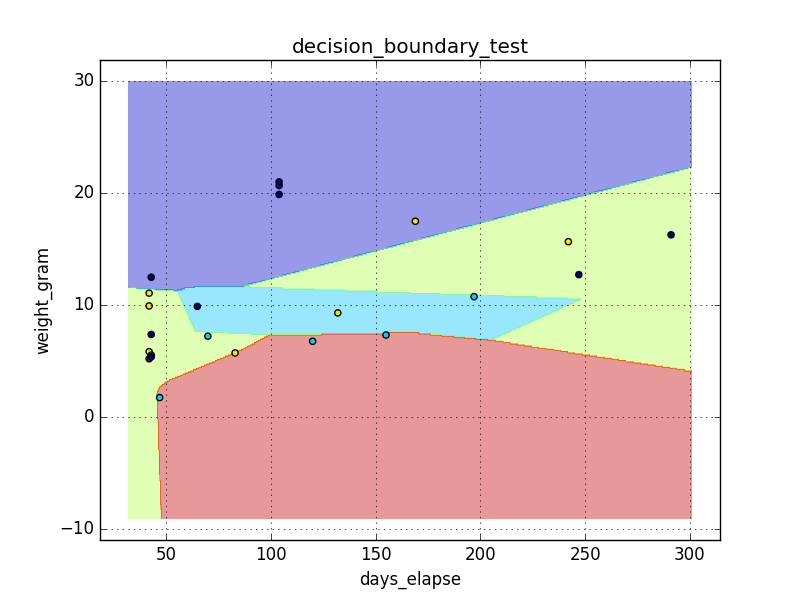
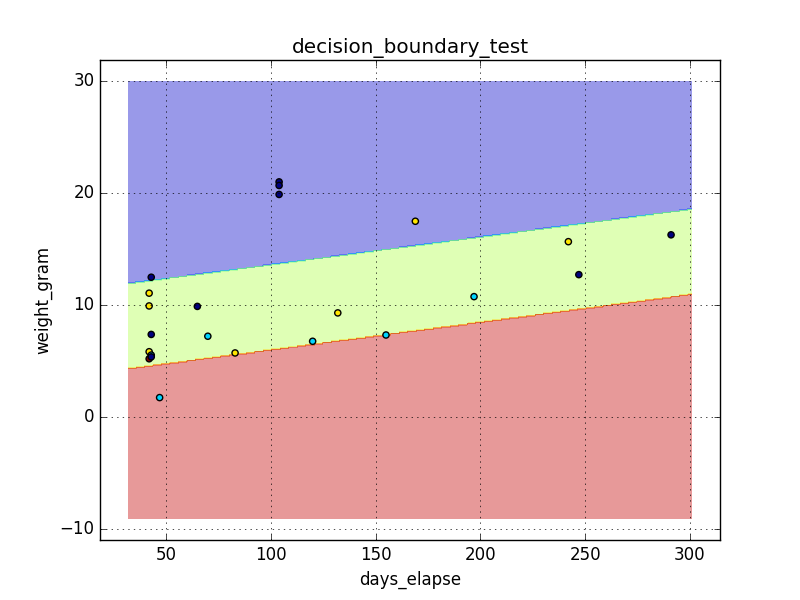
Revise AutoEncoder

Changed region(s): [[0.1562, 0.42, 0.875, 0.87], [0.4688, 0.27, 0.875, 0.42]]

diff --git a/AutoEncoder.py b/AutoEncoder.py
@@ -3,62 +3,116 @@
 import numpy as np
 import pandas as pd
 
-from keras.models import Sequential
-from keras.layers import Dense, Activation
+from keras.layers import Input, Dense
+from keras.models import Model
 
-import matplotlib.pyplot as plt
+class AutoEncoderBase(object):
+    """
+    Base class of AutoEncoder
 
-# load dataset
-df = pd.read_csv('dorcus_DL_study.csv')
+    input:
+        datapath: datapath (csv)
+        ylabel: label for data Y (string)
+        input_dim: input dimension (integer)
+        output_dim: output dimension (integer)
+        numLayer: number of layer (integer, default: 3)
+        numTraining: number of training (long, default: 5000)
+        activation: activation function (default: relu)
 
-# number of training
-numTraining = 100
+    output:
+        result: list of encoder (object)
 
-# number of class
-Cls = list(df['class'].unique()) # [1, 2, 3, 4]
-numCls = len(Cls)
+    """
 
-# set data
-X = df[['days_elapse', 'weight_gram']]
+    def __init__(self, datapath, ylabel, input_dim, output_dim, numLayer=3, numTraining=5000, activation='relu'):
+        self.trX = pd.read_csv(datapath).drop(ylabel, 1).fillna(0)
+        self.input_dim = input_dim
+        self.output_dim = output_dim
+        self.hidden_dim = round((self.input_dim+self.output_dim)/2)
+        self.numLayer = numLayer
+        self.numTraining = numTraining
+        self.activation = activation
+        self.result = []
 
-# set data for training
-trX = np.array(X)
+    def encoding_dim(self):
+        # set encoding dim
+        for i in range(self.numLayer):
+            if i == self.numLayer - 1:
+                yield self.output_dim
+            else:
+                yield self.hidden_dim
 
-# encode
-autoencoder = Sequential()
-autoencoder.add(Dense(output_dim=2, input_dim=2, init='uniform'))
-autoencoder.add(Activation('relu'))
-autoencoder.add(Dense(output_dim=2, input_dim=2, init='uniform'))
-autoencoder.add(Activation('relu'))
-autoencoder.add(Dense(output_dim=4, input_dim=2, init='uniform'))
-autoencoder.add(Activation('softmax'))
+    def input_data(self):
+        # set input data
+        for i in range(self.numLayer):
+            if i == 0:
+                yield Input(shape=(self.trX.shape[1],))
+            else:
+                yield Input(shape=(self.hidden_dim,))
 
-# decode
-autoencoder.add(Dense(output_dim=2, input_dim=4, init='uniform'))
-autoencoder.add(Activation('softmax'))
-autoencoder.add(Dense(output_dim=10, input_dim=10, init='uniform'))
-autoencoder.add(Activation('relu'))
-autoencoder.add(Dense(output_dim=2, input_dim=10, init='uniform'))
-autoencoder.add(Activation('relu'))
+    def encoded(self, encoding_dim, input_data):
+        # set encoded layer
+        for (t, u) in zip(encoding_dim, input_data):
+            yield Dense(output_dim=t, activation=self.activation)(u)
 
-# compile
-# autoencoder.compile(loss='sparse_categorical_crossentropy', optimizer='adagrad', metrics=['accuracy'])
-autoencoder.compile(loss='categorical_crossentropy', optimizer='adagrad', metrics=['accuracy'])
+    def decoded(self, encoded):
+        # set decoded layer
+        for i, t in enumerate(encoded):
+            if i == 0:
+                yield Dense(output_dim=self.input_dim, activation=self.activation)(t)
+            else:
+                yield Dense(output_dim=self.hidden_dim, activation=self.activation)(t)
 
-# training
-his = autoencoder.fit(trX, trX, nb_epoch=numTraining, verbose=2)
+    def autoencoder(self, input_data, decoded):
+        # set autoencoder
+        for (t, u) in zip(input_data, decoded):
+            yield Model(input=t, output=u)
 
-# plot result
-fig = plt.figure()
-ax1 = fig.add_subplot(1,1,1)
-ax1.plot(his.history['loss'])
+    def encoder(self, input_data, encoded):
+        # set encoder for output
+        for (t, u) in zip(input_data, encoded):
+            yield Model(input=t, output=u)
 
-# save figure
-plt.savefig('loss_enc.png')
+    def fit(self):
+        encoding_dim = list(self.encoding_dim())
+        input_data = list(self.input_data())
+        encoded = list(self.encoded(encoding_dim, input_data))
+        decoded = list(self.decoded(encoded))
+        autoencoder = list(self.autoencoder(input_data, decoded))
+        encoder = list(self.encoder(input_data, encoded))
+        _trX = []
 
-# save model
-json_string = autoencoder.to_json()
-open('model_enc.json', 'w').write(json_string)
+        for i, t in enumerate(autoencoder):
+            # set training data
+            if i == 0:
+                _trX.append(np.array(self.trX))
+            else:
+                _trX.append(encoder[i-1].predict(_trX[i-1]))
 
-# save parameters
-autoencoder.save_weights('param_enc.h5')
+            X = _trX[i]
+
+            # compile
+            t.compile(loss='mse', optimizer='adagrad')
+
+            # training
+            t.fit(X, X, nb_epoch=self.numTraining, verbose=2)
+
+            # save encoder
+            self.result.append(encoder[i])
+
+        return self.result
+
+if __name__ == '__main__':
+    # test
+    datapath = 'dorcus_DL_study.csv'
+    ylabel = 'class'
+    input_dim = 2
+    output_dim = 4
+
+    ae = AutoEncoderBase(datapath, ylabel, input_dim, output_dim)
+    result = ae.fit()
+
+    # save result
+    outputpath = ['encoder1.h5', 'encoder2.h5', 'encoder3.h5']
+    for (u, t) in zip(result, outputpath):
+        u.save(t)

diff --git a/Training.py b/Training.py
@@ -3,21 +3,13 @@
 import numpy as np
 import pandas as pd
 
-from keras.models import Sequential, model_from_json
+from keras.models import Sequential, load_model
 from keras.layers import Dense, Activation
 
 import matplotlib.pyplot as plt
 
 # load dataset
 df = pd.read_csv('dorcus_DL_study.csv')
-
-# load autoencoder
-#autoencoder = model_from_json(open('model_enc.json').read())
-#autoencoder.load_weights('param_enc.h5')
-
-# set initial parameters
-#_w = autoencoder.get_weights()
-#w = _w[:6]
 
 # number of training
 numTraining = 80000
@@ -41,15 +33,27 @@ trX = np.array(X)
 
 # set model
 model = Sequential()
-model.add(Dense(output_dim=2, input_dim=2, init='normal'))
+model.add(Dense(output_dim=3, input_dim=2))
 model.add(Activation('relu'))
-model.add(Dense(output_dim=2, input_dim=2, init='normal'))
+model.add(Dense(output_dim=3, input_dim=3))
 model.add(Activation('relu'))
-model.add(Dense(output_dim=4, input_dim=2, init='normal'))
+model.add(Dense(output_dim=4, input_dim=3))
 model.add(Activation('softmax'))
 
+# load autoencoder
+encoder1 = load_model('encoder1.h5')
+encoder2 = load_model('encoder2.h5')
+encoder3 = load_model('encoder3.h5')
+
 # set initial weights
-#model.set_weights(w)
+w = model.get_weights()
+w[0] = encoder1.get_weights()[0]
+w[1] = encoder1.get_weights()[1]
+w[2] = encoder2.get_weights()[0]
+w[3] = encoder2.get_weights()[1]
+w[4] = encoder3.get_weights()[0]
+w[5] = encoder3.get_weights()[1]
+model.set_weights(w)
 
 # compile
 model.compile(loss='categorical_crossentropy', optimizer='adagrad', metrics=['accuracy'])
@@ -66,8 +70,4 @@ ax1.plot(his.history['loss'])
 plt.savefig('loss.png')
 
 # save model
-json_string = model.to_json()
-open('model.json', 'w').write(json_string)
-
-# save parameters
-model.save_weights('param.h5')
+model.save('model.h5')

diff --git a/old/AutoEncoder.py b/old/AutoEncoder.py
@@ -1,0 +1,64 @@
+# -*- coding: utf-8 -*-
+
+import numpy as np
+import pandas as pd
+
+from keras.models import Sequential
+from keras.layers import Dense, Activation
+
+import matplotlib.pyplot as plt
+
+# load dataset
+df = pd.read_csv('dorcus_DL_study.csv')
+
+# number of training
+numTraining = 100
+
+# number of class
+Cls = list(df['class'].unique()) # [1, 2, 3, 4]
+numCls = len(Cls)
+
+# set data
+X = df[['days_elapse', 'weight_gram']]
+
+# set data for training
+trX = np.array(X)
+
+# encode
+autoencoder = Sequential()
+autoencoder.add(Dense(output_dim=2, input_dim=2, init='uniform'))
+autoencoder.add(Activation('relu'))
+autoencoder.add(Dense(output_dim=2, input_dim=2, init='uniform'))
+autoencoder.add(Activation('relu'))
+autoencoder.add(Dense(output_dim=4, input_dim=2, init='uniform'))
+autoencoder.add(Activation('softmax'))
+
+# decode
+autoencoder.add(Dense(output_dim=2, input_dim=4, init='uniform'))
+autoencoder.add(Activation('softmax'))
+autoencoder.add(Dense(output_dim=10, input_dim=10, init='uniform'))
+autoencoder.add(Activation('relu'))
+autoencoder.add(Dense(output_dim=2, input_dim=10, init='uniform'))
+autoencoder.add(Activation('relu'))
+
+# compile
+# autoencoder.compile(loss='sparse_categorical_crossentropy', optimizer='adagrad', metrics=['accuracy'])
+autoencoder.compile(loss='categorical_crossentropy', optimizer='adagrad', metrics=['accuracy'])
+
+# training
+his = autoencoder.fit(trX, trX, nb_epoch=numTraining, verbose=2)
+
+# plot result
+fig = plt.figure()
+ax1 = fig.add_subplot(1,1,1)
+ax1.plot(his.history['loss'])
+
+# save figure
+plt.savefig('loss_enc.png')
+
+# save model
+json_string = autoencoder.to_json()
+open('model_enc.json', 'w').write(json_string)
+
+# save parameters
+autoencoder.save_weights('param_enc.h5')

diff --git a/Additional_Tranining.py b/Additional_Tranining.py
@@ -3,7 +3,7 @@
 import numpy as np
 import pandas as pd
 
-from keras.models import model_from_json
+from keras.models import load_model
 
 import matplotlib.pyplot as plt
 
@@ -35,10 +35,7 @@ trY = np.array(list(__trY(Y))).reshape(len(Y), numCls)
 trX = np.array(X)
 
 # load model
-model = model_from_json(open('model.json').read())
-
-# load parameters
-model.load_weights('param.h5')
+model = load_model('model.h5')
 
 # compile
 model.compile(loss='categorical_crossentropy', optimizer='adagrad', metrics=['accuracy'])

diff --git a/Plot.py b/Plot.py
@@ -3,7 +3,7 @@
 import numpy as np
 import pandas as pd
 
-from keras.models import model_from_json
+from keras.models import load_model
 
 import matplotlib.pyplot as plt
 
@@ -28,10 +28,7 @@ trY = np.array(list(__trY(Y))).reshape(len(Y), numCls)
 trX = np.array(X)
 
 # load model
-model = model_from_json(open('model.json').read())
-
-# load parameters
-model.load_weights('param.h5')
+model = load_model('model.h5')
 
 # compile
 model.compile(loss='categorical_crossentropy', optimizer='adagrad', metrics=['accuracy'])

diff --git a/test.py b/test.py
@@ -3,7 +3,7 @@
 import numpy as np
 import pandas as pd
 
-from keras.models import model_from_json
+from keras.models import load_model
 
 import matplotlib.pyplot as plt
 
@@ -28,10 +28,7 @@ trY = np.array(list(__trY(Y))).reshape(len(Y), numCls)
 trX = np.array(X)
 
 # load model
-model = model_from_json(open('model.json').read())
-
-# load parameters
-model.load_weights('param.h5')
+model = load_model('model.h5')
 
 # compile
 model.compile(loss='categorical_crossentropy', optimizer='adagrad', metrics=['accuracy'])
